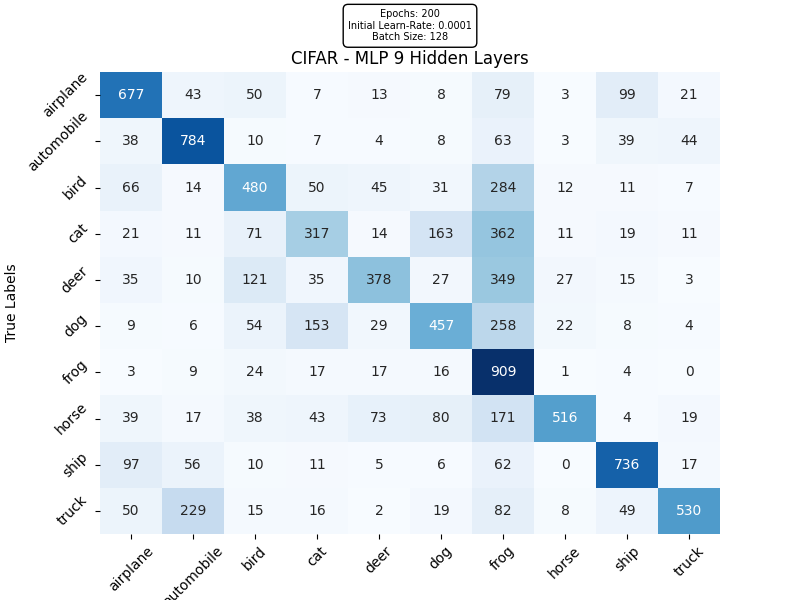
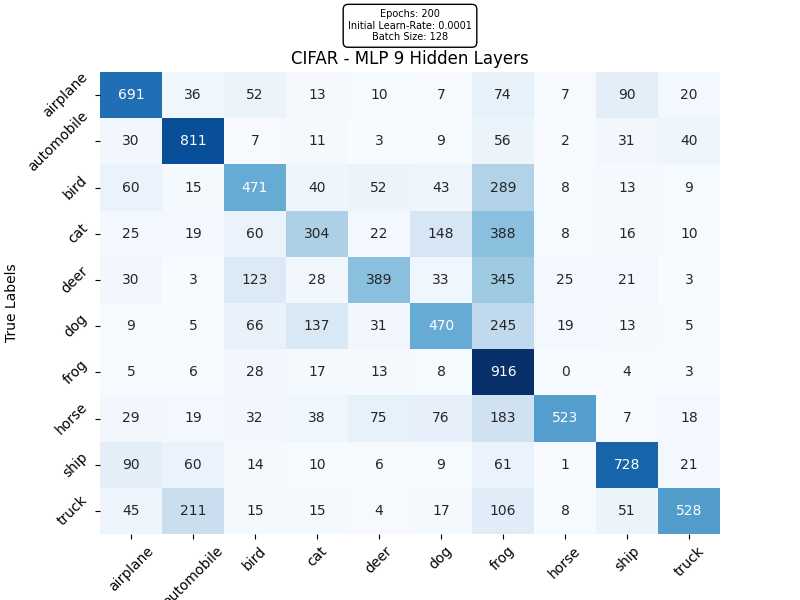
all images

diff --git a/mlp_cifar_9hiddenLayers.py b/mlp_cifar_9hiddenLayers.py
@@ -129,7 +129,7 @@ class Classifier:
 
 
         # Netzwerk "laden"
-        self.network = MLP(self.num_classes)
+        self.network = MLP(self.img_res, self.num_classes)
         self.network = self.network.to(self.device)
 
         # Algorithmus für den Gradientenabstieg festlegen
@@ -283,12 +283,39 @@ class Classifier:
         else:
             print(f'Keine gespeicherten Gewichte unter {modelLoadPath} gefunden.')
 
+    def display_and_save_predictions(self, n_images=25, directory='./predictions'):
+                self.network.eval()
+                images, labels = next(iter(self.test_loader))
+                images, labels = images.to(self.device), labels.to(self.device)
+                
+                output = self.network(images)
+                preds = output.data.max(1, keepdim=True)[1]
+                
+                # CIFAR-10 Klassennamen
+                class_names = ['airplane', 'automobile', 'bird', 'cat', 'deer', 
+                        'dog', 'frog', 'horse', 'ship', 'truck']
+
+                plt.figure(figsize=(10, 10))
+                for i in range(n_images):
+                    plt.subplot(5, 5, i+1)
+                    img = images[i].cpu().permute(1, 2, 0).numpy()  # Transformiere die Tensor-Dimensionen für die Darstellung
+                    img = img * (0.2023, 0.1994, 0.2010) + (0.4914, 0.4822, 0.4465)  # Unnormalize das Bild
+                    plt.imshow(img)
+                    plt.title(f'Pred: {class_names[preds[i].item()]}')
+                    plt.axis('off')
+                
+                # Speicher das Raster in ein Verzeichnis
+                os.makedirs(directory, exist_ok=True)
+                raster_path = os.path.join(directory, f'MLP9_CIFAR_{self.n_epochs}_epochs_predictions_grid.png')
+                plt.savefig(raster_path)
+                print(f'Raster gespeichert unter {raster_path}')
+                plt.show()
 
 
 # Main-Methode 
 def main():
     #Hyperparameter festlegen
-    n_epochs = 1
+    n_epochs = 200
     log_interval = 10
     init_lr = 0.0001
 
@@ -296,20 +323,21 @@ def main():
     cl = Classifier(n_epochs, init_lr)
     #Test von zufällig initierten Gewichten
     cl.test()
-
+    cl.loadModelWeights(n_epochs)
     #Jede Epoche ein Trainings und ein Validierungsschritt
-    for epoch in range(1, n_epochs + 1):
-        cl.train(epoch, log_interval)
-        cl.validate()
+    #for epoch in range(1, n_epochs + 1):
+    #    cl.train(epoch, log_interval)
+    #    cl.validate()
 
     #Plotten des Trainings- und Validierungs-Loss-Graphen
-    cl.plot_val_train_losses()
+    #cl.plot_val_train_losses()
 
     #Evaluieren des trainierten Netzes
     cl.test()
     #Plotten der Confusion-Matrix
     cl.plot_confMatrix()
 
+    cl.display_and_save_predictions()
     #Speichern der optimierten Gewichte
     cl.saveModelWeights(n_epochs)
 
@@ -317,3 +345,4 @@ def main():
 #Wirft ein Fehler wenn der Teil nicht existiert 
 if __name__ == '__main__':
     main()
+

diff --git a/mlp_cifar_2hiddenLayers.py b/mlp_cifar_2hiddenLayers.py
@@ -92,7 +92,7 @@ class Classifier:
 
 
         # Netzwerk "laden"
-        self.network = MLP(self.num_classes)
+        self.network = MLP(self.img_res, self.num_classes)
         self.network = self.network.to(self.device)
 
         # Algorithmus für den Gradientenabstieg festlegen
@@ -246,12 +246,40 @@ class Classifier:
         else:
             print(f'Keine gespeicherten Gewichte unter {modelLoadPath} gefunden.')
 
+            
+    def display_and_save_predictions(self, n_images=25, directory='./predictions'):
+            self.network.eval()
+            images, labels = next(iter(self.test_loader))
+            images, labels = images.to(self.device), labels.to(self.device)
+            
+            output = self.network(images)
+            preds = output.data.max(1, keepdim=True)[1]
+            
+            # CIFAR-10 Klassennamen
+            class_names = ['airplane', 'automobile', 'bird', 'cat', 'deer', 
+                    'dog', 'frog', 'horse', 'ship', 'truck']
+
+            plt.figure(figsize=(10, 10))
+            for i in range(n_images):
+                plt.subplot(5, 5, i+1)
+                img = images[i].cpu().permute(1, 2, 0).numpy()  # Transformiere die Tensor-Dimensionen für die Darstellung
+                img = img * (0.2023, 0.1994, 0.2010) + (0.4914, 0.4822, 0.4465)  # Unnormalize das Bild
+                plt.imshow(img)
+                plt.title(f'Pred: {class_names[preds[i].item()]}')
+                plt.axis('off')
+            
+            # Speicher das Raster in ein Verzeichnis
+            os.makedirs(directory, exist_ok=True)
+            raster_path = os.path.join(directory, f'MLP2_CIFAR_{self.n_epochs}_epochs_predictions_grid.png')
+            plt.savefig(raster_path)
+            print(f'Raster gespeichert unter {raster_path}')
+            plt.show()
 
 
 # Main-Methode 
 def main():
     #Hyperparameter festlegen
-    n_epochs = 1
+    n_epochs = 200
     log_interval = 10
     init_lr = 0.0001
 
@@ -259,20 +287,21 @@ def main():
     cl = Classifier(n_epochs, init_lr)
     #Test von zufällig initierten Gewichten
     cl.test()
-
+    cl.loadModelWeights(n_epochs)
     #Jede Epoche ein Trainings und ein Validierungsschritt
-    for epoch in range(1, n_epochs + 1):
-        cl.train(epoch, log_interval)
-        cl.validate()
+    #for epoch in range(1, n_epochs + 1):
+    #    cl.train(epoch, log_interval)
+    #    cl.validate()
 
     #Plotten des Trainings- und Validierungs-Loss-Graphen
-    cl.plot_val_train_losses()
+    #cl.plot_val_train_losses()
 
     #Evaluieren des trainierten Netzes
     cl.test()
     #Plotten der Confusion-Matrix
     cl.plot_confMatrix()
 
+    cl.display_and_save_predictions()
     #Speichern der optimierten Gewichte
     cl.saveModelWeights(n_epochs)
 
@@ -280,3 +309,4 @@ def main():
 #Wirft ein Fehler wenn der Teil nicht existiert 
 if __name__ == '__main__':
     main()
+

diff --git a/mlp_MNIST_2hidden.py b/mlp_MNIST_2hidden.py
@@ -251,6 +251,28 @@ class Classifier:
         else:
             print(f'Keine gespeicherten Gewichte unter {modelLoadPath} gefunden.')
 
+    def display_and_save_predictions(self, n_images=25, directory='./predictions'):
+            self.network.eval()
+            images, labels = next(iter(self.test_loader))
+            images, labels = images.to(self.device), labels.to(self.device)
+            
+            output = self.network(images)
+            preds = output.data.max(1, keepdim=True)[1]
+            
+            plt.figure(figsize=(10, 10))
+            for i in range(n_images):
+                plt.subplot(5, 5, i+1)
+                img = images[i].cpu().numpy().squeeze()
+                plt.imshow(img, cmap='gray')
+                plt.title(f'Pred: {preds[i].item()}')
+                plt.axis('off')
+            
+            # Speicher das Raster in ein Verzeichnis
+            os.makedirs(directory, exist_ok=True)
+            raster_path = os.path.join(directory, f'MLP_MNIST_{self.n_epochs}_epochs_predictions_grid.png')
+            plt.savefig(raster_path)
+            print(f'Raster gespeichert unter {raster_path}')
+            plt.show()
 
 
 # Main-Methode 
@@ -262,26 +284,26 @@ def main():
 
     #Instanz des Klassifizieres erzeugen
     cl = Classifier(n_epochs, init_lr)
+    
+    cl.loadModelWeights(n_epochs)
     #Test von zufällig initierten Gewichten
     #cl.test()
 
     #Jede Epoche ein Trainings und ein Validierungsschritt
-    
     #for epoch in range(1, n_epochs + 1):
     #    cl.train(epoch, log_interval)
     #    cl.validate()
 
     #Plotten des Trainings- und Validierungs-Loss-Graphen
-    #cl.plot_val_train_losses()
-
-    cl.loadModelWeights(n_epochs)
-    cl.test()
+    cl.plot_val_train_losses()
 
     #Evaluieren des trainierten Netzes
-    #cl.test()
+    cl.test()
     #Plotten der Confusion-Matrix
     cl.plot_confMatrix()
 
+    #Anzeige von Vorhersage und Groundtruth
+    cl.display_and_save_predictions()
     #Speichern der optimierten Gewichte
     #cl.saveModelWeights(n_epochs)
 

diff --git a/cnn_CIFAR10_complex.py b/cnn_CIFAR10_complex.py
@@ -8,7 +8,7 @@ import torchvision.transforms as transforms
 from sklearn.metrics import precision_score, recall_score, f1_score, confusion_matrix
 import matplotlib.pyplot as plt
 import seaborn as sns
-import numpy
+
 
 #Netz bauen basierend auf einer VGG Architekur
 class CNN_CIFAR_COMPLEX(nn.Module):     
